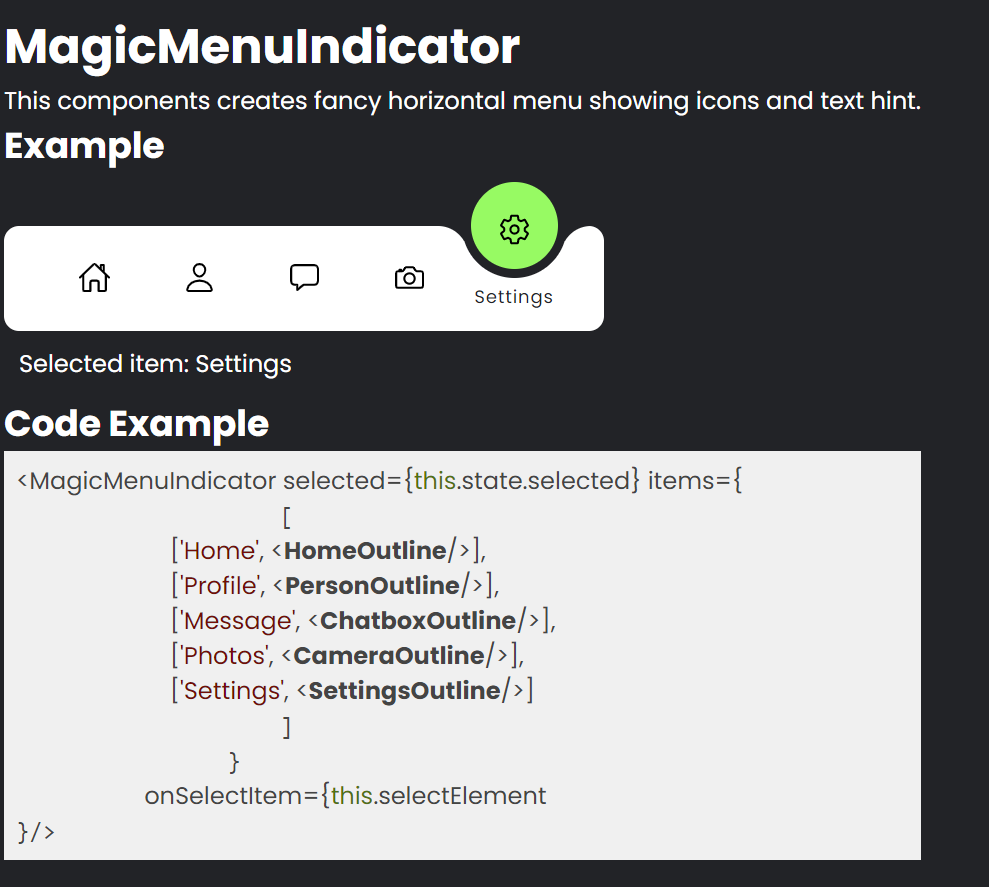
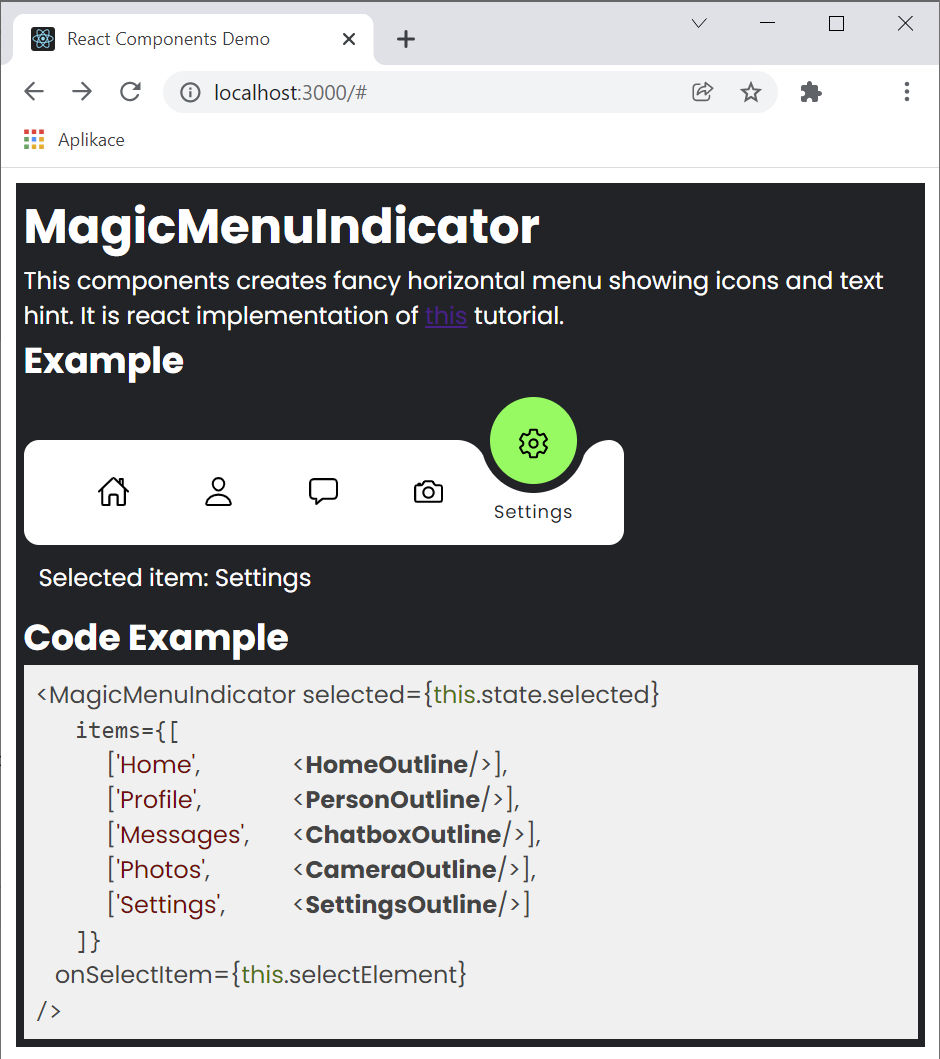
Working...

diff --git a/src/views/MagicMenuIndicatorView.js b/src/views/MagicMenuIndicatorView.js
@@ -5,11 +5,11 @@ import SyntaxHighlighter from "react-syntax-highlighter"
 
 const code = '<MagicMenuIndicator selected=\{this.state.selected\}\n' +
     '   items={[\n' +
-    '           [\'Home\',\t<HomeOutline/>],\n' +
-    '           [\'Profile\',\t<PersonOutline/>],\n' +
+    '           [\'Home\',\t\t<HomeOutline/>],\n' +
+    '           [\'Profile\',\t\t<PersonOutline/>],\n' +
     '           [\'Messages\',\t<ChatboxOutline/>],\n' +
-    '           [\'Photos\',\t<CameraOutline/>],\n' +
-    '           [\'Settings\',\t<SettingsOutline/>]\n' +
+    '           [\'Photos\',\t\t<CameraOutline/>],\n' +
+    '           [\'Settings\',\t\t<SettingsOutline/>]\n' +
     '   ]}\n' +
     '   onSelectItem=\{this.selectElement}\n' +
     '/>'
@@ -32,6 +32,7 @@ class MagicMenuIndicatorView extends Component {
                     <h1>MagicMenuIndicator</h1>
                     <p>
                         This components creates fancy horizontal menu showing icons and text hint.
+                        It is react implementation of <a href="https://www.youtube.com/watch?v=ArTVfdHOB-M&t=708s">this</a> tutorial.
                     </p>
                 <h2>Example</h2>
                 <MagicMenuIndicator selected={this.state.selected} items={
@@ -45,7 +46,7 @@ class MagicMenuIndicatorView extends Component {
                 }
                                     onSelectItem={this.selectElement}/>
                 <div style={{color: '#ffffff', margin: '10px'}}>
-                    Selected item: {this.state.selected}
+                    Selected item: <b>{this.state.selected}</b>
                 </div>
                 <div style={{marginTop: '10px', textAlign: 'left'}}>
                     <h2>Code Example</h2>

diff --git a/src/components/MagicMenuIndicator/MagicMenuIndicator.css b/src/components/MagicMenuIndicator/MagicMenuIndicator.css
@@ -137,3 +137,7 @@
 .navigation ul li:nth-child(7).active ~ .indicator {
     transform: translateX(calc(70px * 6));
 }
+
+.navigation ul li:nth-child(7).active ~ .indicator {
+    transform: translateX(calc(70px * 6));
+}
